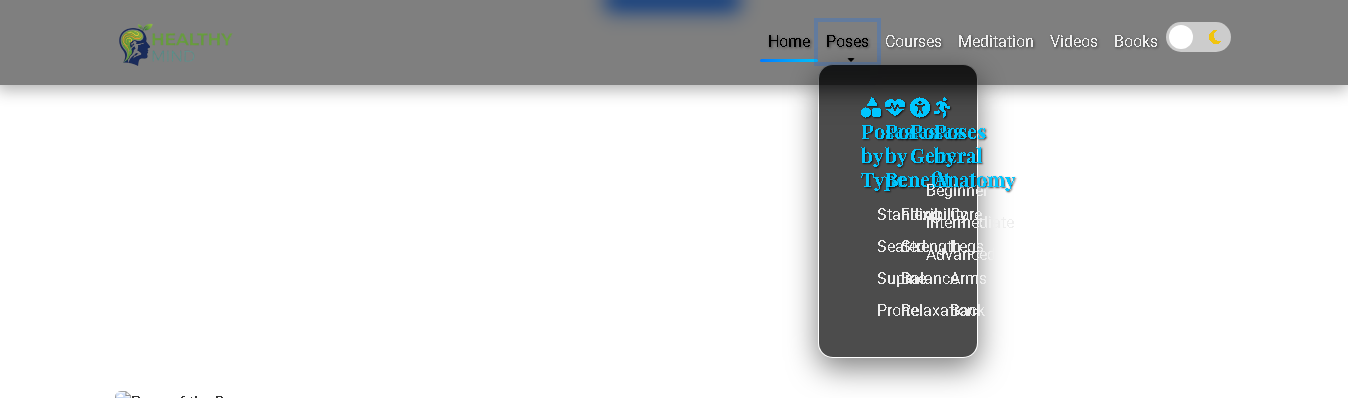
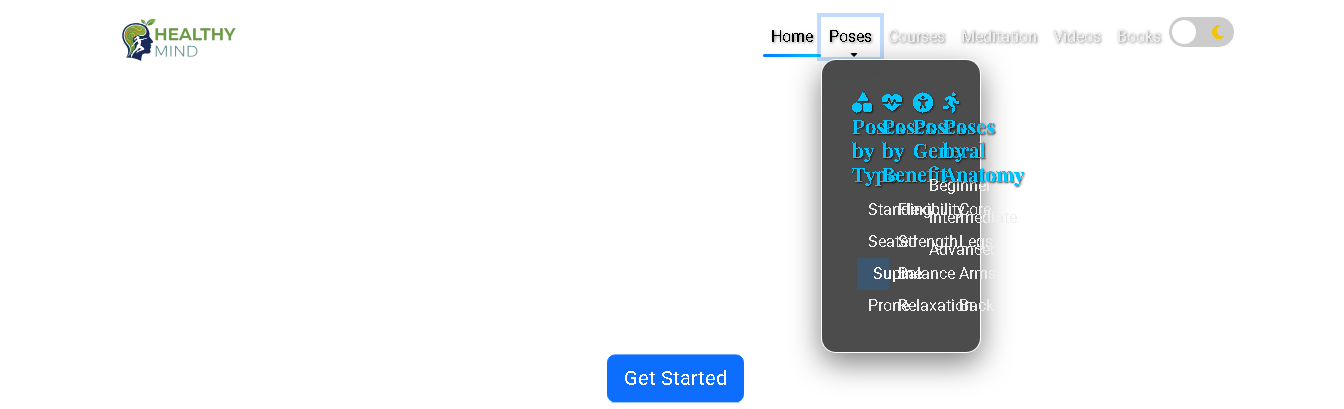
new update

Changed region(s): [[0.0, 0.0, 1.0, 0.9648], [0.4375, 0.8442, 0.5625, 0.995], [0.0625, 0.995, 0.1875, 1.0]]

diff --git a/css/style.css b/css/style.css
@@ -447,6 +447,7 @@ footer .btn-primary:hover {
   width: 50px;
   background: #ff5e14;
 }
+
 .footer-widget ul {
     display: flex;
     flex-wrap: wrap;
@@ -458,6 +459,7 @@ footer .btn-primary:hover {
     width: 50%;
     margin-bottom: 12px;
 }
+
 .footer-widget ul li a:hover{
   color: #ff5e14;
 }
@@ -602,4 +604,14 @@ body.dark-mode .mega-menu .dropdown-menu .dropdown-item {
 #back-to-top:hover {
     transform: scale(1.1);
     box-shadow: 0 5px 15px rgba(0, 123, 255, 0.5);
+}
+
+.mega-menu .dropdown-menu .row {
+    display: flex !important;
+    flex-wrap: nowrap !important;
+}
+
+.mega-menu .dropdown-menu .col-md-3 {
+    flex: 0 0 25% !important;
+    max-width: 25% !important;
 }
